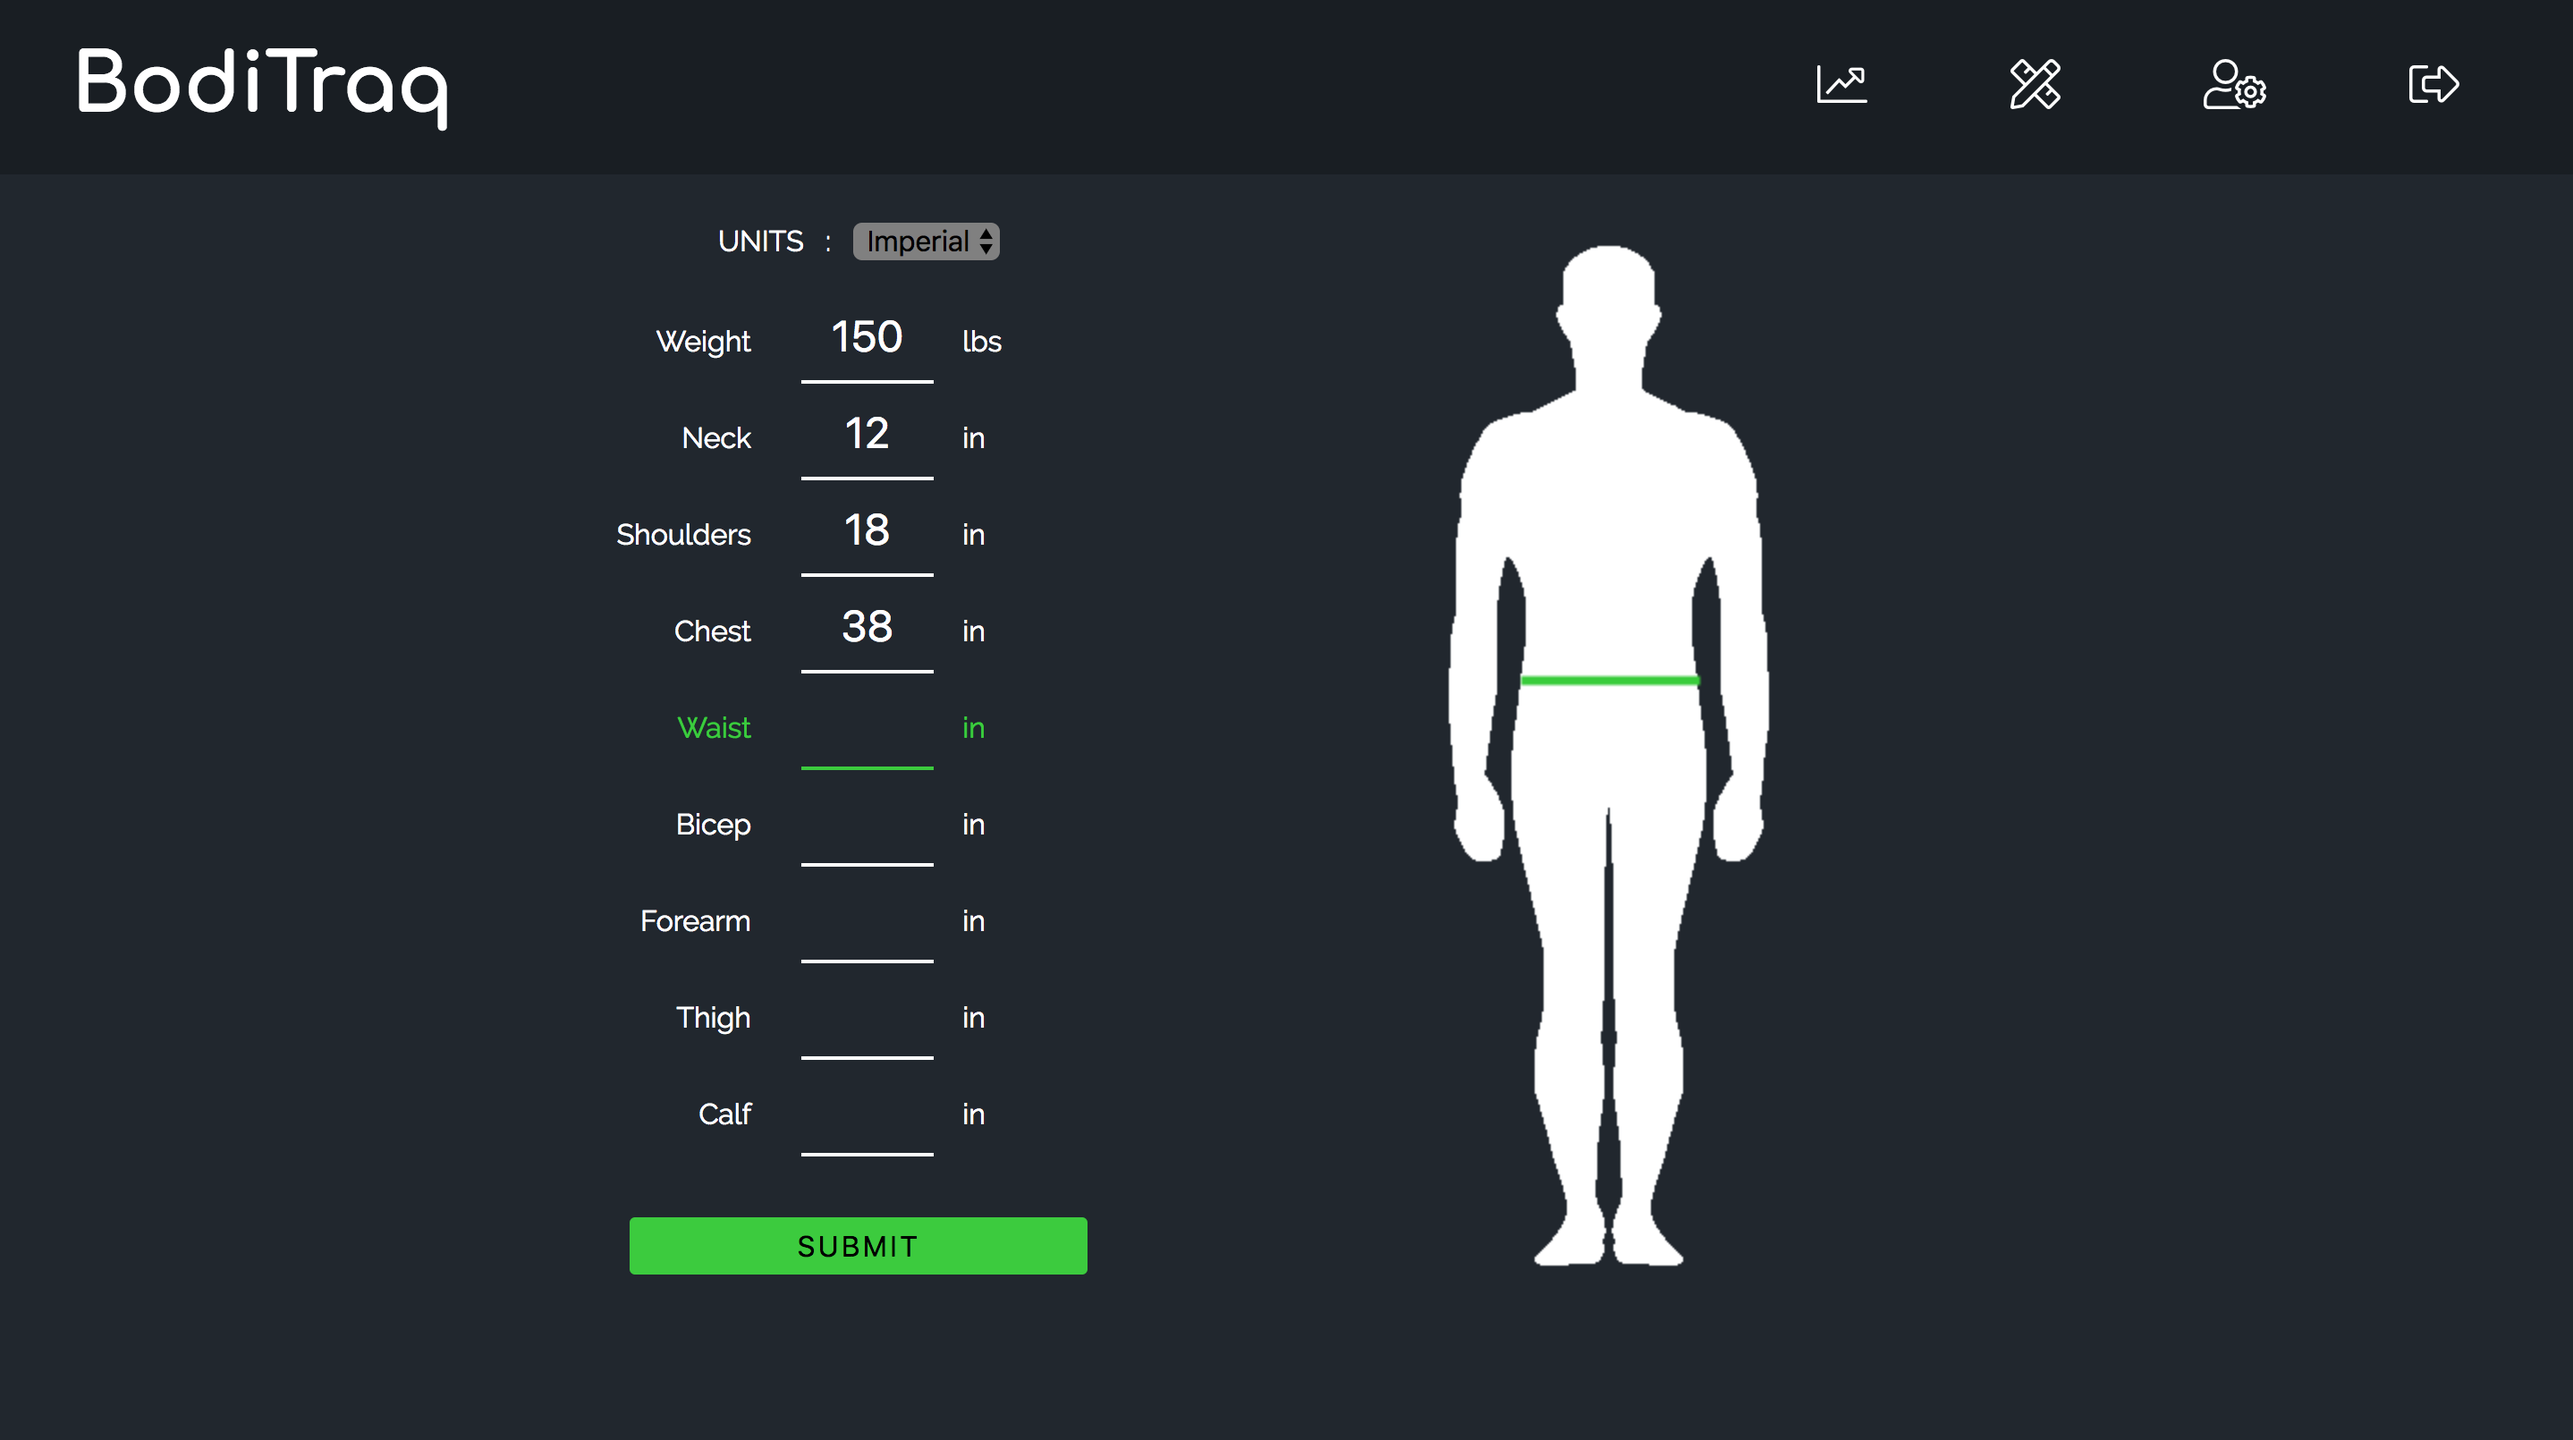
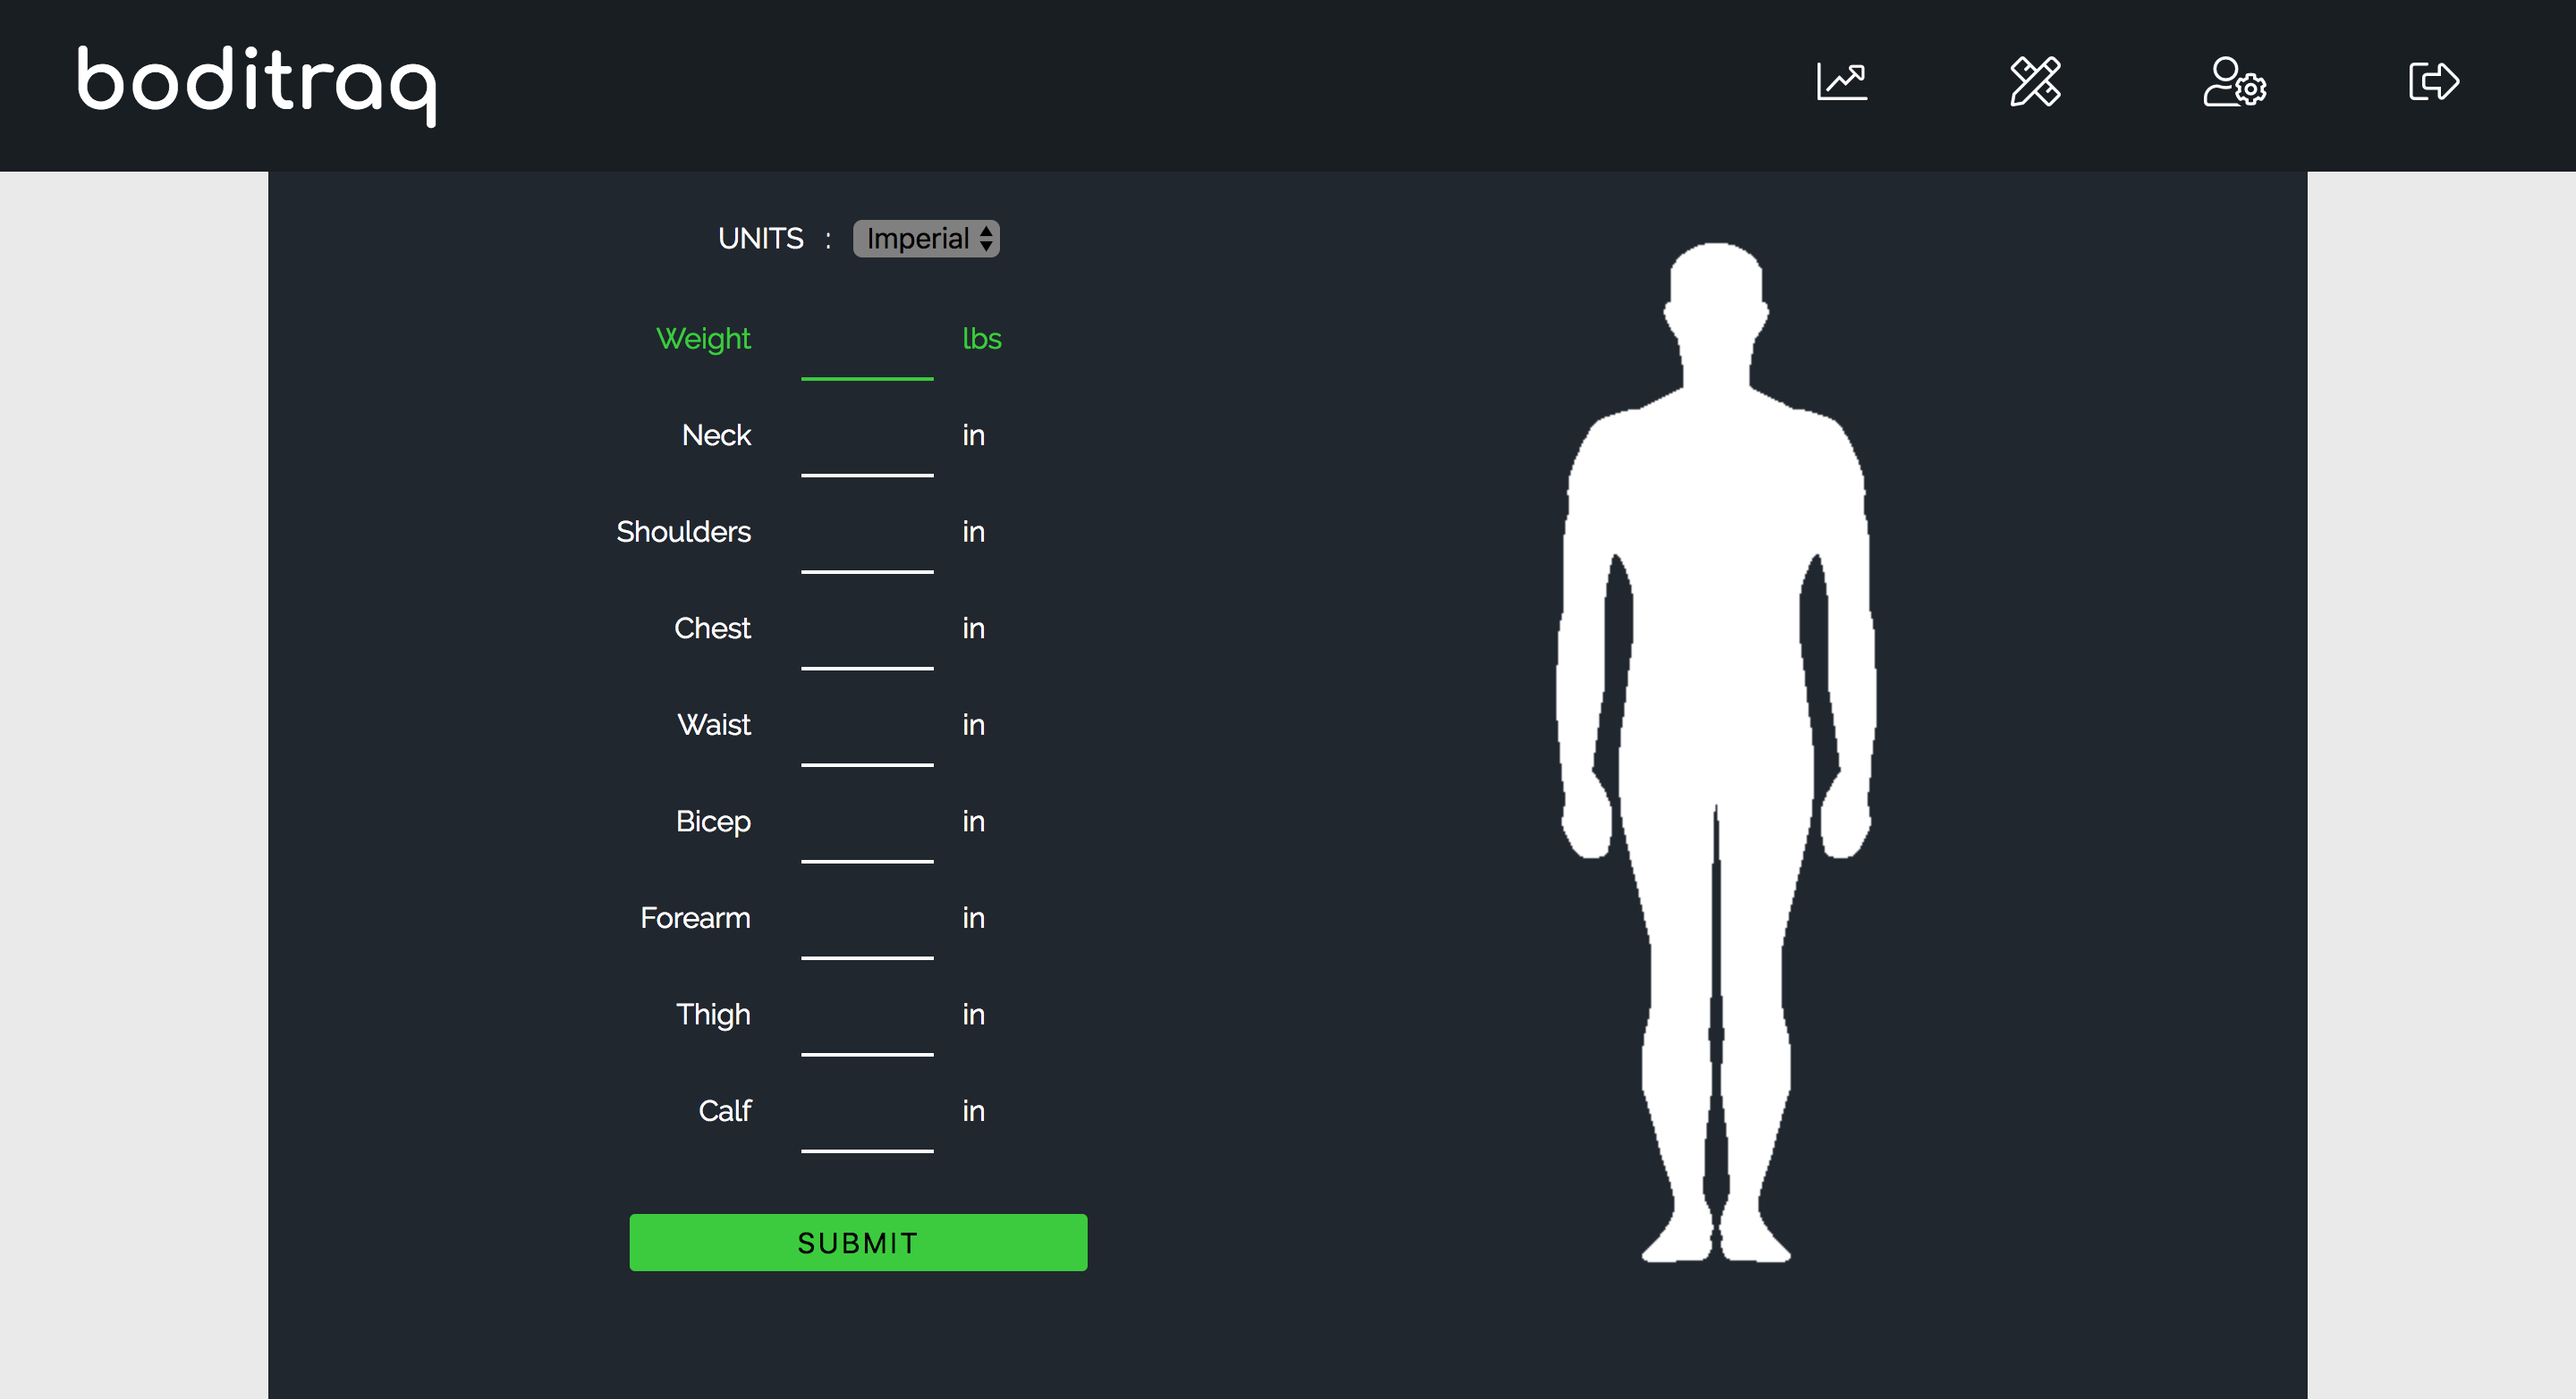
img changes

diff --git a/views/track.html b/views/track.html
@@ -26,18 +26,18 @@
                     </div>
                     {% for measurement in measurements %}
                         <div class="measurement-input-container">
-                            <label for="{{ measurement.id }}" {% if measurement.body_measurement_literal == "Weight" %}class="focused"{% endif %}>{{ measurement.body_measurement_literal }}</label>
-                            <input name="{{ measurement.id }}" type="number" step="0.1" min="0" autocomplete="off" {% if measurement.body_measurement_literal == "Weight" %} autofocus required {% endif %}>
+                            <label for="{{ measurement.id }}" {% if measurement.body_measurement_literal == "Weight" %}class=""{% endif %}>{{ measurement.body_measurement_literal }}</label>
+                            <input name="{{ measurement.id }}" type="number" step="0.1" min="0" autocomplete="off" {% if measurement.body_measurement_literal == "Weight" %} required {% endif %}>
                             <!--Need jQuery to change this based on above unit selection -->
                             {% if unitsOfMeasure == "Imperial" %}
                                 {% if measurement.body_measurement_literal == "Weight" %}
-                                    <p class="units {{ measurement.id }} focused">lbs</p>
+                                    <p class="units {{ measurement.id }}">lbs</p>
                                 {% else %}
                                     <p class="units {{ measurement.id }}">in</p>
                                 {% endif %}
                             {% else %}
                                 {% if measurement.body_measurement_literal == "Weight" %}
-                                    <p class="units {{ measurement.id }} focused">kg</p>
+                                    <p class="units {{ measurement.id }}">kg</p>
                                 {% else %}
                                     <p class="units {{ measurement.id }}">cm</p>
                                 {% endif %}

diff --git a/public/style/track.css b/public/style/track.css
@@ -99,7 +99,7 @@ button {
 }
 
 .track1 {
-    /*background-image: url("../img/human_img_neck.png");*/
+    background-image: url("../img/human_img_weight.png");
 }
 
 .track2 {

diff --git a/public/style/index.css b/public/style/index.css
@@ -102,6 +102,7 @@ img {
     border-radius: 10px;
     width: 60%;
     max-width: 700px;
+    border: 1px solid #25292E;
 }
 
 .underlined {
